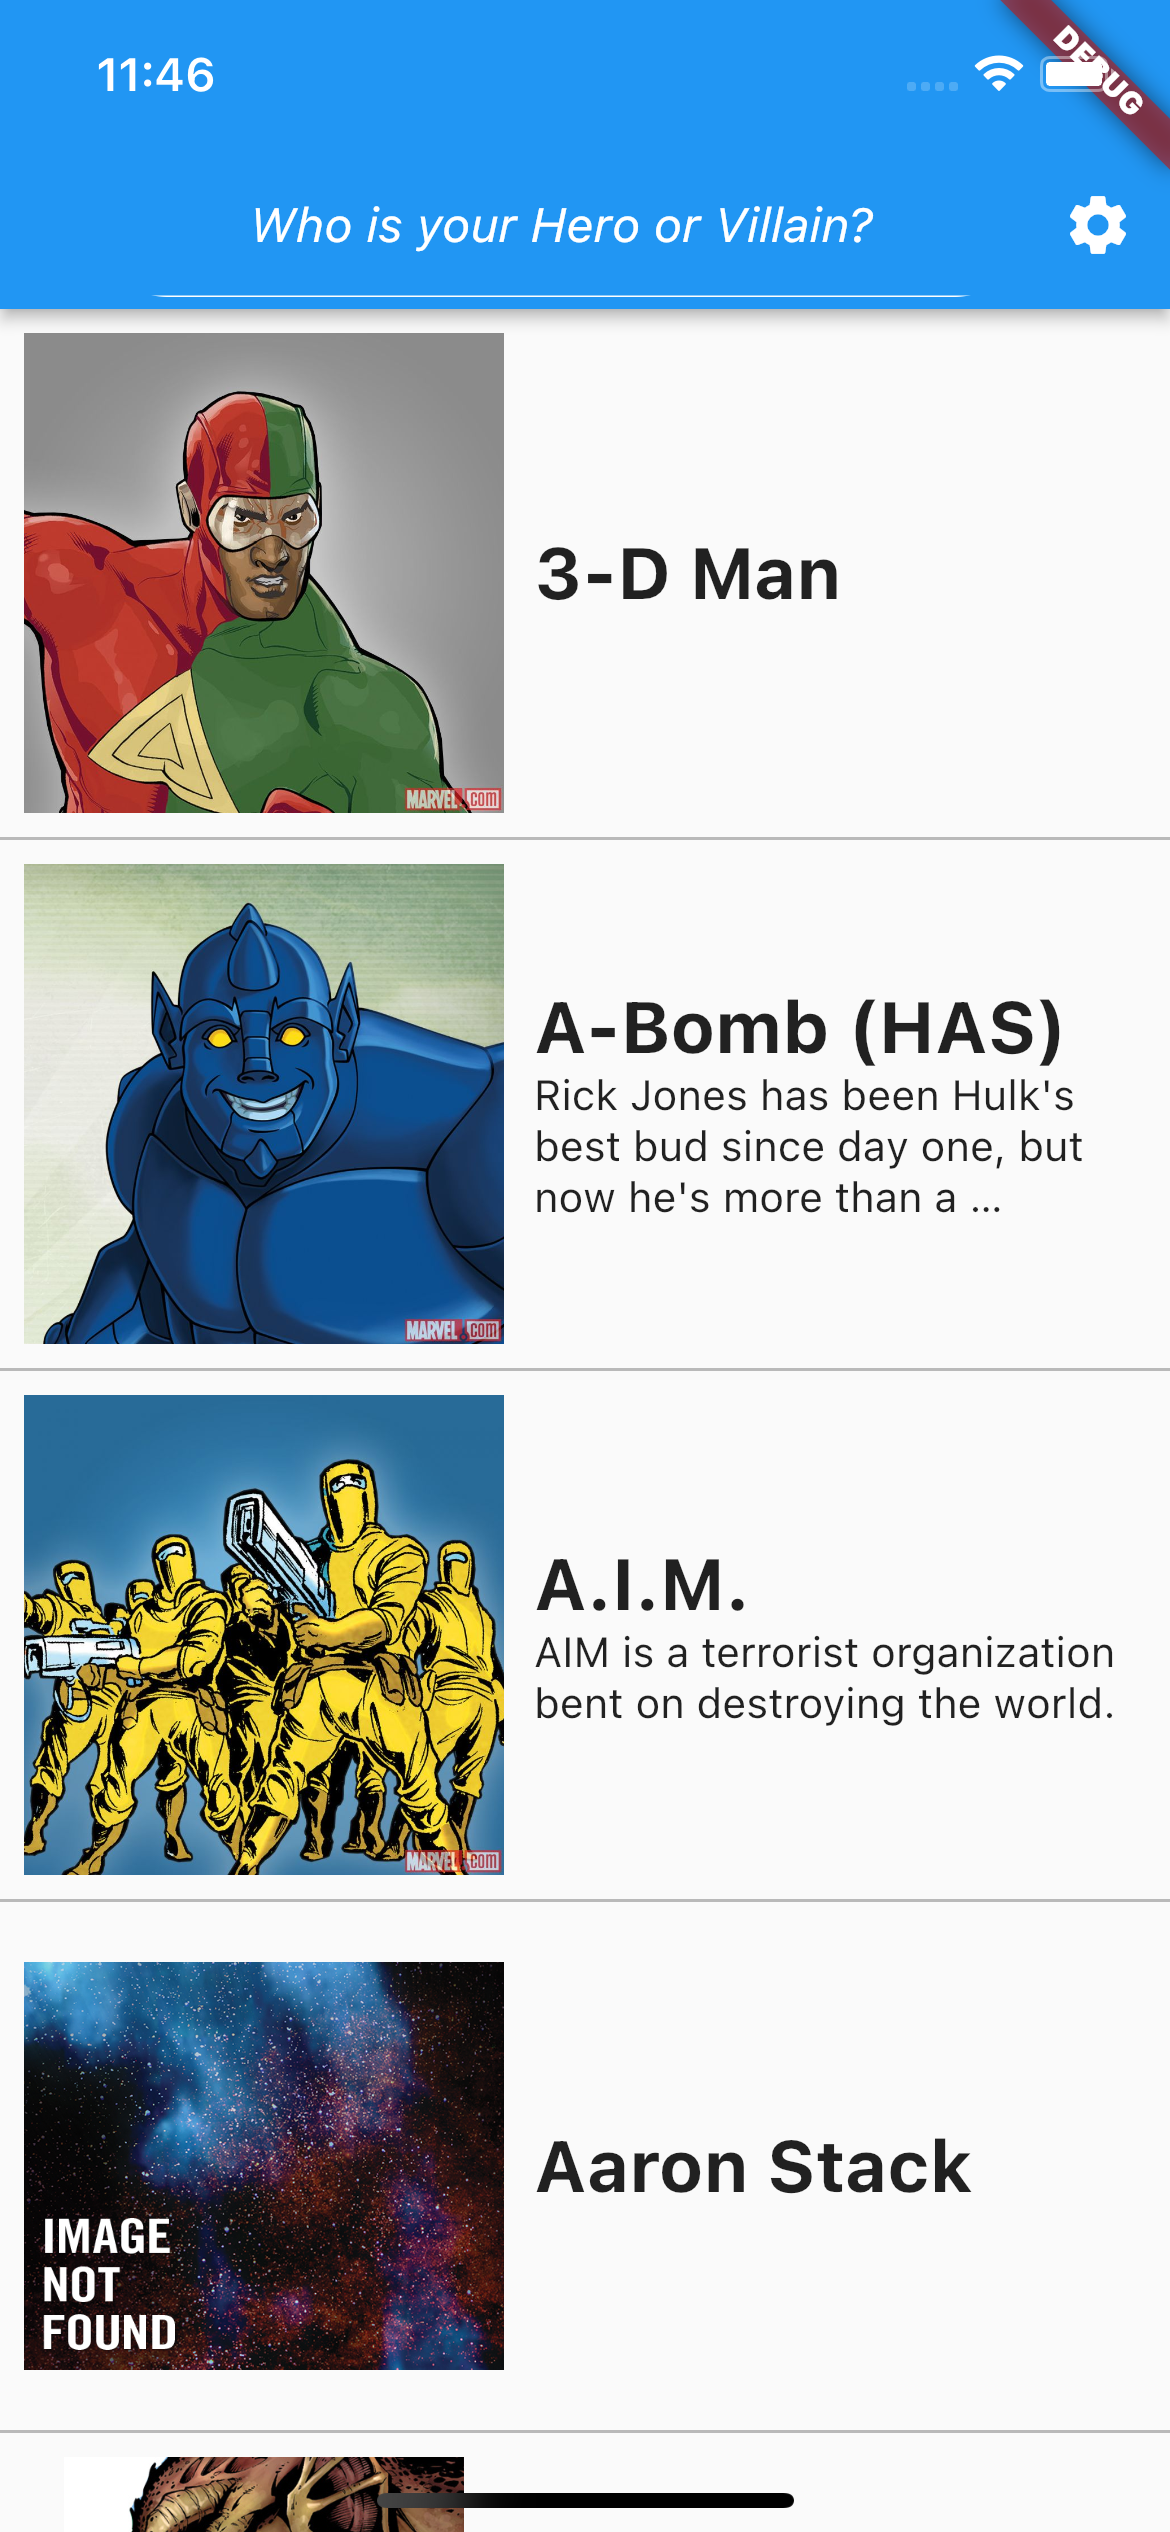
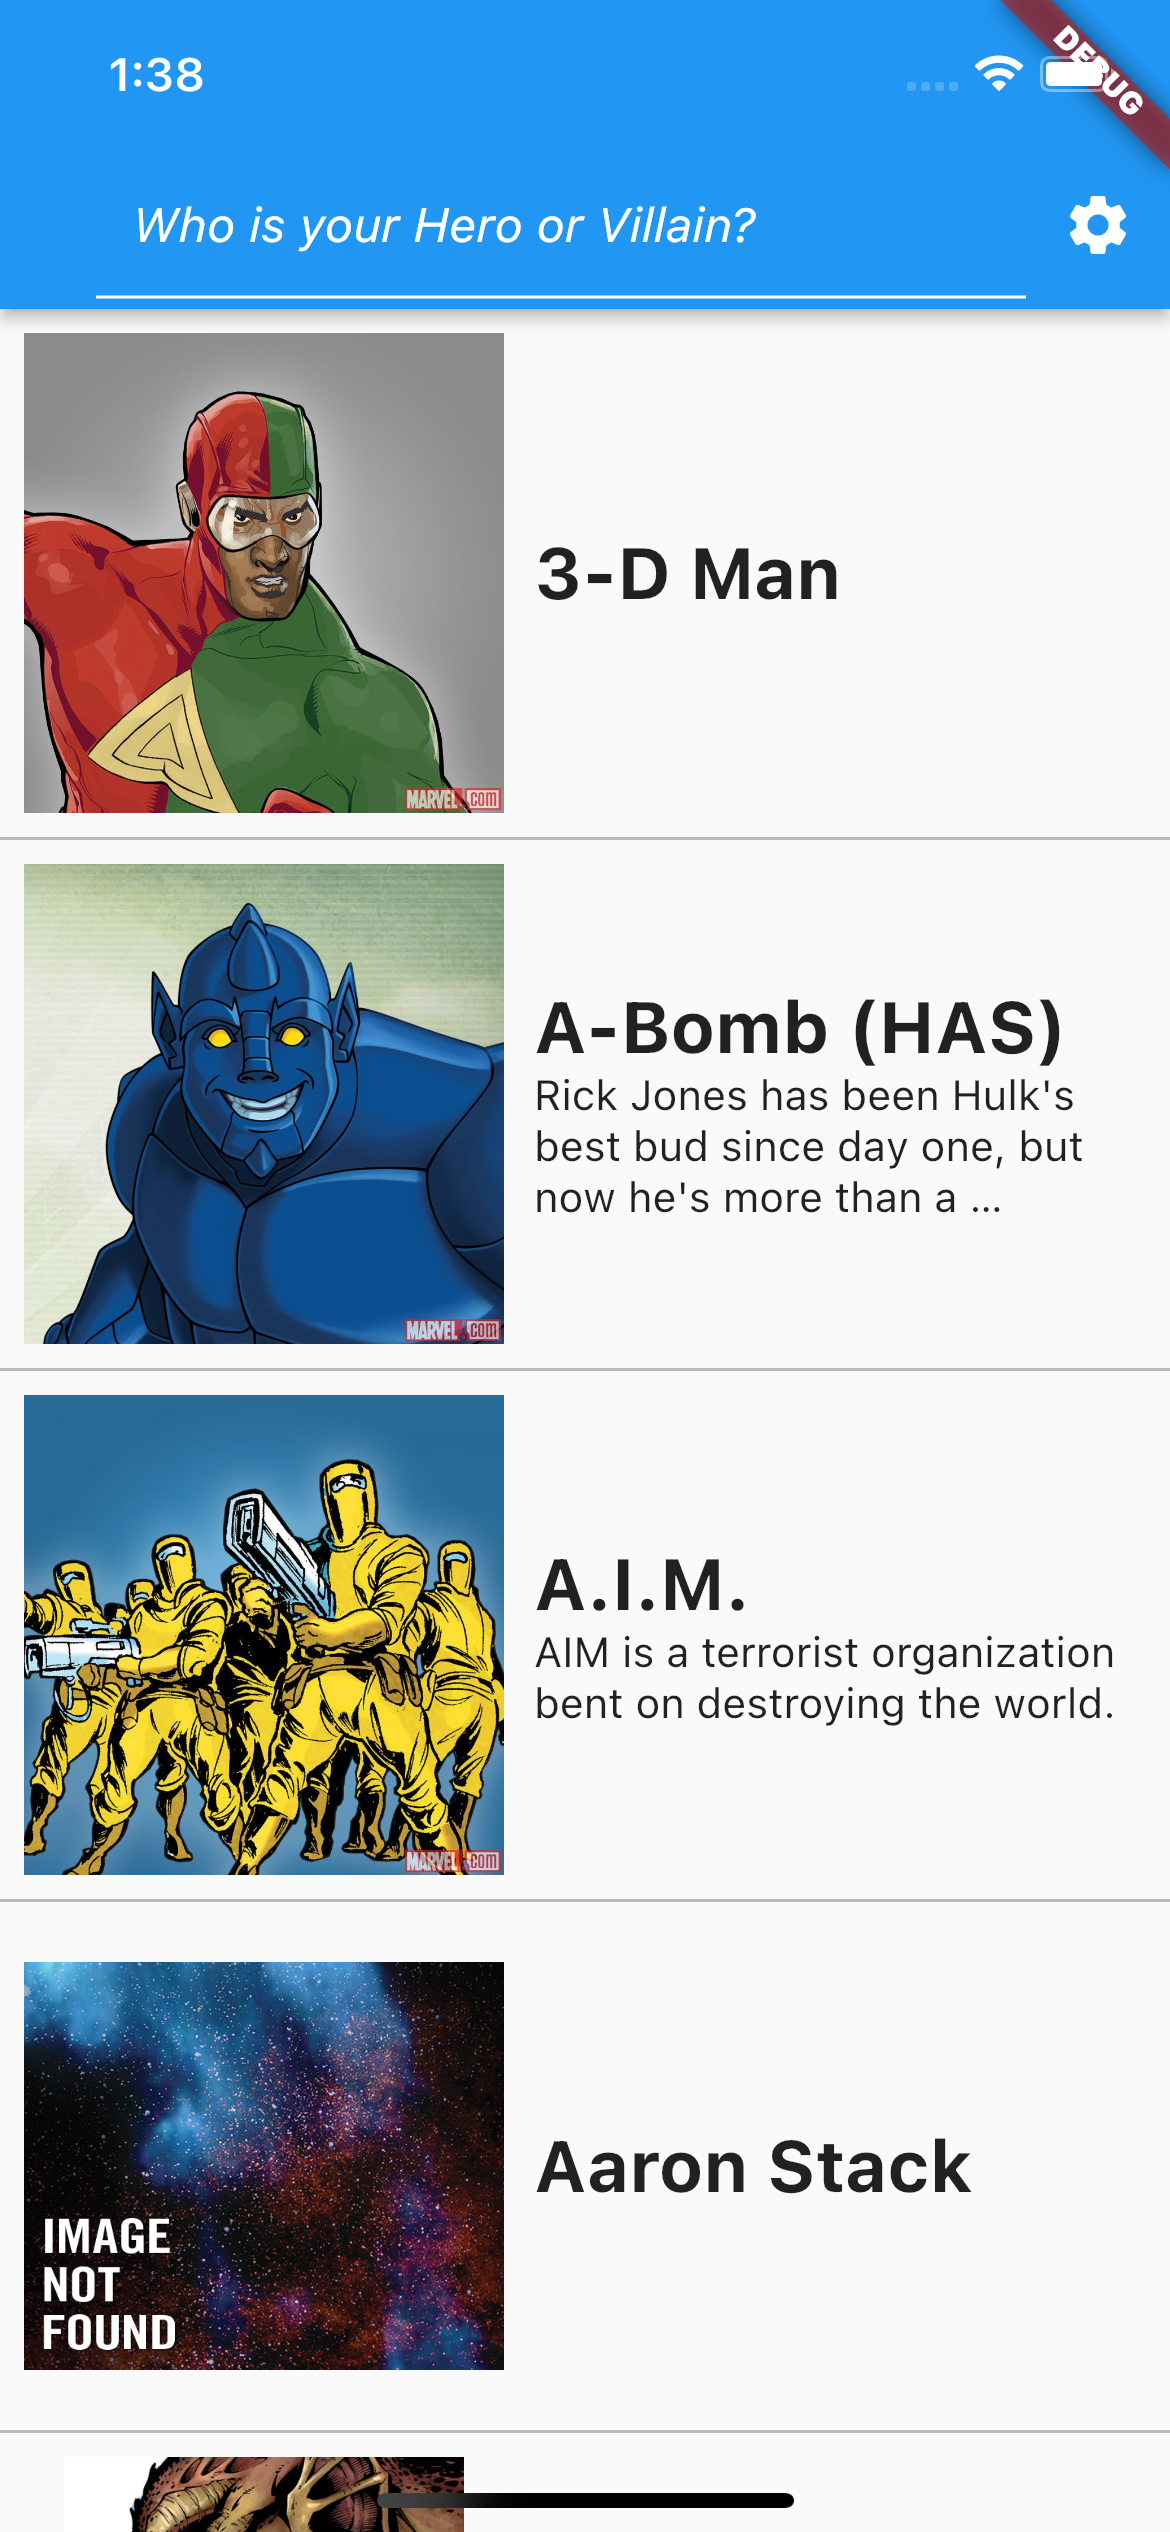
fix textfield

Changed region(s): [[0.3077, 0.0624, 0.7385, 0.0936], [0.0923, 0.0, 0.1846, 0.0936], [0.2154, 0.0624, 0.2769, 0.0936]]

diff --git a/lib/screens/characters_list/search_app_bar.dart b/lib/screens/characters_list/search_app_bar.dart
@@ -22,23 +22,19 @@ class SearchAppBar extends StatelessWidget with PreferredSizeWidget {
     }
 
     return TextField(
-      textAlign: TextAlign.center,
       controller: controller,
-      decoration: InputDecoration(
+      decoration: const InputDecoration(
         filled: true,
         fillColor: Colors.transparent,
         hintText: 'Who is your Hero or Villain?',
-        hintStyle:
-            const TextStyle(color: Colors.white, fontStyle: FontStyle.italic),
+        hintStyle: TextStyle(color: Colors.white, fontStyle: FontStyle.italic),
         enabledBorder: UnderlineInputBorder(
-          borderSide: const BorderSide(color: Colors.white),
-          borderRadius: BorderRadius.circular(32),
+          borderSide: BorderSide(color: Colors.white),
         ),
         focusedBorder: UnderlineInputBorder(
-          borderSide: const BorderSide(color: Colors.white),
-          borderRadius: BorderRadius.circular(32),
+          borderSide: BorderSide(color: Colors.white),
         ),
-        // prefixIcon: const Icon(Icons.search, color: Colors.white),
+        // prefixIcon: Icon(Icons.search, color: Colors.white),
       ),
       style: const TextStyle(
         color: Colors.white,
